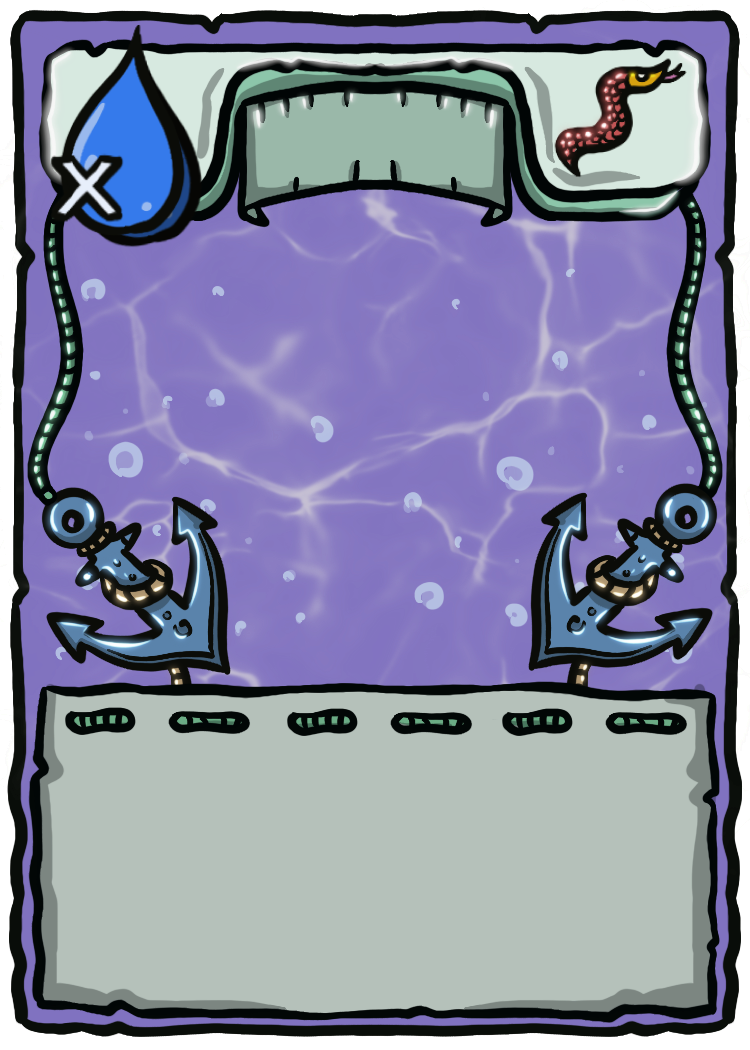
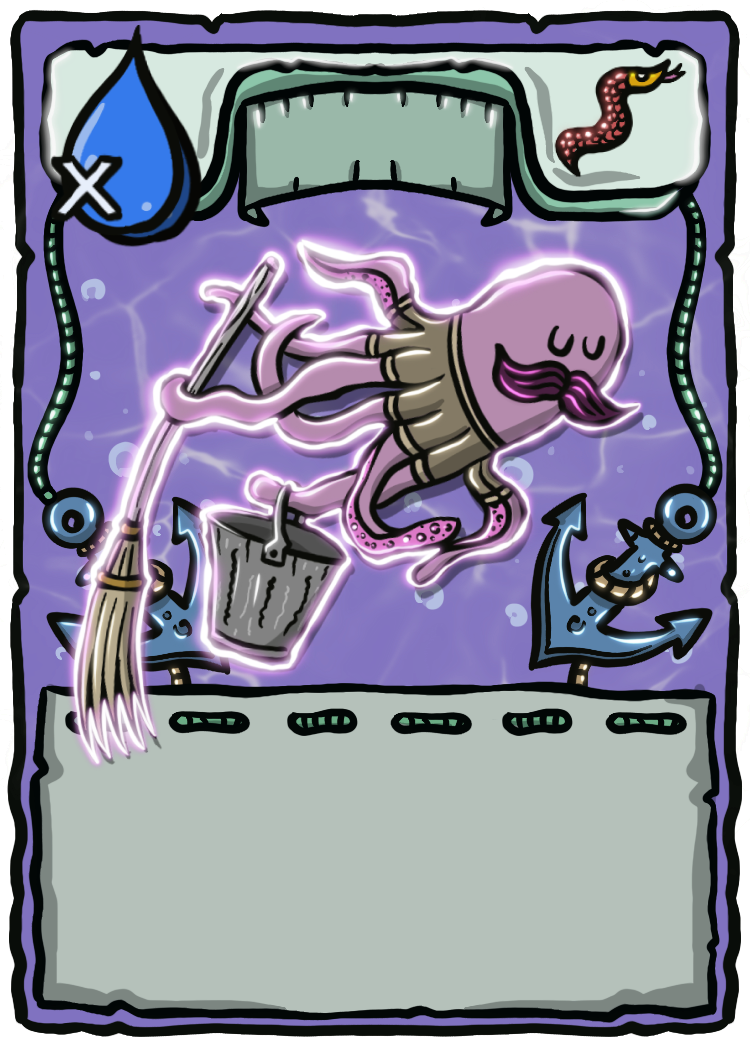
a

Changed region(s): [[0.092, 0.2133, 0.8587, 0.7314]]

diff --git a/src/components/Card.js b/src/components/Card.js
@@ -6,14 +6,25 @@ import seafolk1Image from "../../public/assets/cards/seafolk-1.png";
 import seafolk2Image from "../../public/assets/cards/seafolk-2.png";
 import seafolk3Image from "../../public/assets/cards/seafolk-3.png";
 import seafolk4Image from "../../public/assets/cards/seafolk-4.png";
+// u seafolk backgrounds
+import seafolk1uImage from "../../public/assets/cards/seafolk-1-u.png";
+import seafolk2uImage from "../../public/assets/cards/seafolk-2-u.png";
+import seafolk3uImage from "../../public/assets/cards/seafolk-3-u.png";
+import seafolk4uImage from "../../public/assets/cards/seafolk-4-u.png";
 
 import machine1Image from "../../public/assets/cards/machine-1.png";
 import machine2Image from "../../public/assets/cards/machine-2.png";
 import machine3Image from "../../public/assets/cards/machine-3.png";
 import machine4Image from "../../public/assets/cards/machine-4.png";
+// u machine backgrounds
+import machine1uImage from "../../public/assets/cards/machine-1-u.png";
+import machine2uImage from "../../public/assets/cards/machine-2-u.png";
+import machine3uImage from "../../public/assets/cards/machine-3-u.png";
+import machine4uImage from "../../public/assets/cards/machine-4-u.png";
 
 import economy1Image from "../../public/assets/cards/economy1.png";
 import economy2Image from "../../public/assets/cards/economy2.png";
+import { BADGES } from "@/database";
 
 const Card = ({ card, onClick, className = "", animate = true }) => {
   if (!card) return null;
@@ -36,17 +47,29 @@ const Card = ({ card, onClick, className = "", animate = true }) => {
   const getCardBackground = (card) => {
     // Map of card combinations to their respective background images
     const backgroundMap = {
-      // Seafolk cards (based on suits)
+      // Regular seafolk cards
       "seafolk-suit1": seafolk1Image,
       "seafolk-suit2": seafolk2Image,
       "seafolk-suit3": seafolk3Image,
       "seafolk-suit4": seafolk4Image,
 
-      // Machine cards (based on suits)
+      // u seafolk cards (with cost)
+      "seafolk-suit1-u": seafolk1uImage,
+      "seafolk-suit2-u": seafolk2uImage,
+      "seafolk-suit3-u": seafolk3uImage,
+      "seafolk-suit4-u": seafolk4uImage,
+
+      // Regular machine cards
       "machine-suit1": machine1Image,
       "machine-suit2": machine2Image,
       "machine-suit3": machine3Image,
       "machine-suit4": machine4Image,
+
+      // u machine cards (with cost)
+      "machine-suit1-u": machine1uImage,
+      "machine-suit2-u": machine2uImage,
+      "machine-suit3-u": machine3uImage,
+      "machine-suit4-u": machine4uImage,
 
       // Economy cards
       "economy-normal": economy1Image,
@@ -57,14 +80,12 @@ const Card = ({ card, onClick, className = "", animate = true }) => {
     let key = "";
 
     if (card.type === "seafolk") {
-      // Determine suit number (1-4) based on card.suit
       const suitNumber = getSuitNumber(card.suit);
-      key = `seafolk-suit${suitNumber}`;
+      key = `seafolk-suit${suitNumber}${card.cost ? "-u" : ""}`;
     } else if (card.type === "machine") {
       const suitNumber = getSuitNumber(card.suit);
-      key = `machine-suit${suitNumber}`;
+      key = `machine-suit${suitNumber}${card.cost ? "-u" : ""}`;
     } else if (card.type === "economy") {
-      // Check if it's a shop card (has cost property)
       key = card.cost ? "economy-shop" : "economy-normal";
     }
 
@@ -95,34 +116,44 @@ const Card = ({ card, onClick, className = "", animate = true }) => {
 
       {/* Card Content */}
       <div className="relative z-10">
-        {/* Card Values - Moved to top-left */}
-        <div className="absolute top-1 left-2">
-          {card.type === "seafolk" && (
+        {/* Card Values - Separate wrappers for each type */}
+        {card.type === "seafolk" && (
+          <div className="absolute top-4 left-2">
             <div className="text-3xl font-bold text-white drop-shadow-lg">
               {card.value}
             </div>
-          )}
+          </div>
+        )}
 
-          {card.type === "machine" && (
+        {card.type === "machine" && (
+          <div className="absolute top-5 left-3">
             <div className="text-3xl font-bold text-white drop-shadow-lg">
               {card.multiplier}
             </div>
-          )}
+          </div>
+        )}
 
-          {card.type === "economy" && (
+        {card.type === "economy" && (
+          <div className="absolute top-4 left-2">
             <div className="text-3xl font-bold text-white drop-shadow-lg">
               +{card.pearlValue}
             </div>
-          )}
-        </div>
+          </div>
+        )}
 
         {/* Badges */}
         {card.upgrades && card.upgrades.length > 0 && (
-          <div className="absolute top-1 right-1 flex gap-1">
+          <div className="absolute top-1 right-1 flex gap-1 flex flex-wrap">
             {card.upgrades.map((badge, index) => (
-              <span key={index} className="text-lg">
-                {badge.emoji}
-              </span>
+              <div key={index} className="w-[50px] h-[50px]">
+                <Image
+                  src={BADGES[badge.type].image}
+                  alt={BADGES[badge.type].name}
+                  width={24}
+                  height={24}
+                  className="w-[50px] h-[50px]"
+                />
+              </div>
             ))}
           </div>
         )}

diff --git a/src/components/Game.js b/src/components/Game.js
@@ -31,6 +31,7 @@ import discardImage from "../../public/assets/props/discard.png";
 import slotImage from "../../public/assets/props/leftslot.png";
 
 const CircularProgress = ({ current, goal }) => {
+  const isDevelopment = process.env.NODE_ENV === "development";
   const percentage = Math.min((current / goal) * 100, 100);
   const radius = 70;
   const circumference = 2 * Math.PI * radius;
@@ -69,6 +70,18 @@ const CircularProgress = ({ current, goal }) => {
         </div>
         <div className="text-sm text-blue-300">Water</div>
       </div>
+
+      {/* Debug Button - Only in Development */}
+      {isDevelopment && (
+        <button
+          onClick={() => gameStore.addWater(100)}
+          className="absolute -bottom-12 left-1/2 -translate-x-1/2 px-2 py-1 
+                     bg-blue-600 hover:bg-blue-500 rounded text-xs text-white
+                     transition-colors"
+        >
+          +100 Water (Dev)
+        </button>
+      )}
     </div>
   );
 };
@@ -118,7 +131,7 @@ const Game = observer(() => {
           alt="Empty card slot"
           width={156}
           height={168}
-          className="w-full h-full"
+          className="w-full h-full scale-[130%]"
         />
       </div>
     );
@@ -157,7 +170,7 @@ const Game = observer(() => {
       <div className="min-h-screen text-white">
         {/* Header */}
         <div className="flex justify-center w-full">
-          <div className="flex justify-between items-center bg-slate-800 rounded-[20px] p-4 w-fit">
+          <div className="flex justify-between items-center  p-4 w-fit">
             <div className="flex gap-4">
               {/* Relics */}
               <div className="flex gap-2">
@@ -254,7 +267,7 @@ const Game = observer(() => {
         {/* Game Board */}
         <div className="relative">
           {/* Card Slots */}
-          <div className="flex justify-between items-center">
+          <div className="flex justify-between items-center mx-32">
             {/* Left Slots */}
             <div className="flex flex-col items-center gap-4 flex-shrink-0">
               {/* Top two cards */}
@@ -263,8 +276,7 @@ const Game = observer(() => {
                   <div
                     key={`left-${index}`}
                     className={`${
-                      !gameStore.state.boardSlots[index] &&
-                      "bg-slate-800 rounded-[20px] rounded-[20px]"
+                      !gameStore.state.boardSlots[index] && "rounded-[20px]"
                     } rounded-lg cursor-pointer
                             ${
                               gameStore.state.selectedSlotIndex === index
@@ -283,8 +295,7 @@ const Game = observer(() => {
               {/* Middle card */}
               <div
                 className={`${
-                  !gameStore.state.boardSlots[2] &&
-                  "bg-slate-800 rounded-[20px] rounded-[20px]"
+                  !gameStore.state.boardSlots[2] && " rounded-[20px]"
                 } rounded-lg cursor-pointer ml-12
                         ${
                           gameStore.state.selectedSlotIndex === 2
@@ -303,8 +314,7 @@ const Game = observer(() => {
                   <div
                     key={`left-${index + 3}`}
                     className={`${
-                      !gameStore.state.boardSlots[index + 3] &&
-                      "bg-slate-800 rounded-[20px]"
+                      !gameStore.state.boardSlots[index + 3] && ""
                     } rounded-lg cursor-pointer
                             ${
                               gameStore.state.selectedSlotIndex === index + 3
@@ -363,8 +373,7 @@ const Game = observer(() => {
                   <div
                     key={`right-${index}`}
                     className={`${
-                      !gameStore.state.boardSlots[index + 5] &&
-                      "bg-slate-800 rounded-[20px]"
+                      !gameStore.state.boardSlots[index + 5] && ""
                     } rounded-lg cursor-pointer
                             ${
                               gameStore.state.selectedSlotIndex === index + 5
@@ -383,8 +392,7 @@ const Game = observer(() => {
               {/* Middle card */}
               <div
                 className={`${
-                  !gameStore.state.boardSlots[7] &&
-                  "bg-slate-800 rounded-[20px]"
+                  !gameStore.state.boardSlots[7] && ""
                 } rounded-lg cursor-pointer ml-12
                         ${
                           gameStore.state.selectedSlotIndex === 7
@@ -403,8 +411,7 @@ const Game = observer(() => {
                   <div
                     key={`right-${index + 8}`}
                     className={`${
-                      !gameStore.state.boardSlots[index + 8] &&
-                      "bg-slate-800 rounded-[20px]"
+                      !gameStore.state.boardSlots[index + 8] && ""
                     } rounded-lg cursor-pointer
                             ${
                               gameStore.state.selectedSlotIndex === index + 8

diff --git a/src/stores/gameStore.js b/src/stores/gameStore.js
@@ -1048,6 +1048,14 @@ class GameStore {
     if (round <= 6) return "bubble2";
     return "bubble3";
   }
+
+  addWater(amount) {
+    console.log("AAAA", amount);
+    runInAction(() => {
+      this.state.currentWater += amount;
+      // Recalculate water after adding
+    });
+  }
 }
 
 export const gameStore = new GameStore();
